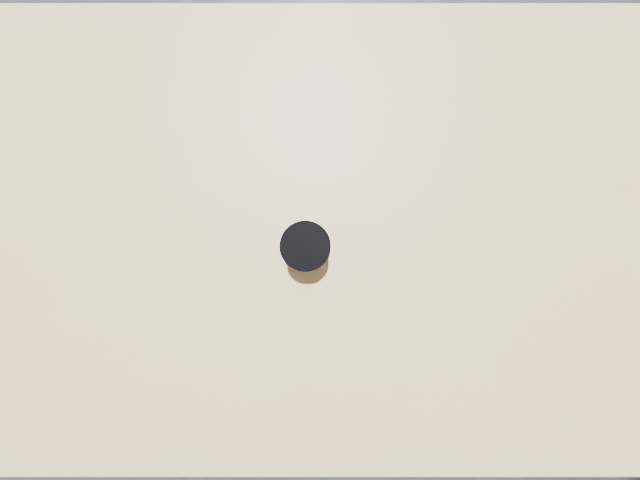
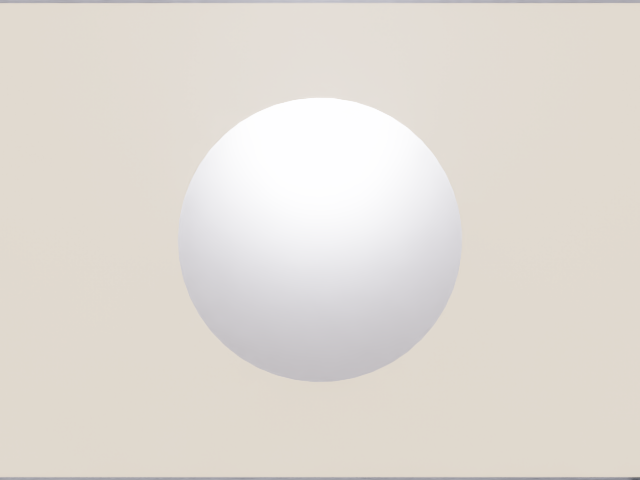
fixed camera pos

Changed region(s): [[0.2812, 0.1875, 0.7188, 0.5938], [0.3125, 0.6562, 0.6875, 0.8125]]

diff --git a/scripts/capture_piece_detection.py b/scripts/capture_piece_detection.py
@@ -53,9 +53,10 @@ FOCAL_MM    = 24.0
 APERTURE_MM = 36.0
 
 # Surface estimation: look for the dominant depth peak in this range [m].
-# Should bracket the table/board surface.
-SURFACE_DEPTH_MIN = 0.10
-SURFACE_DEPTH_MAX = 0.50
+# Should bracket the table/board surface for the active camera height.
+# Defaults below assume camera at z ≈ 1 m (cavity-camera pose).
+SURFACE_DEPTH_MIN = 0.70
+SURFACE_DEPTH_MAX = 1.20
 SURFACE_HIST_BIN  = 0.001   # 1 mm bins
 
 # Segmentation: a pixel belongs to the piece if its depth is MORE than this
@@ -69,6 +70,33 @@ DEPTH_MIN_VALID = 0.02
 # Connected-component filters
 CC_MIN_AREA_PX =  300   # discard blobs smaller than this
 CC_MAX_AREA_PX = 50000  # discard blobs suspiciously large (probably table leak)
+
+# ── PIECE ROI ────────────────────────────────────────────────────────────────
+# Restrict surface estimation (and optionally segmentation) to a region of
+# interest around the piece capture area.  This avoids unrelated surfaces in
+# the scene (e.g. another table in the corner) hijacking the depth histogram.
+#
+# Three modes when PIECE_ROI_ENABLED=True:
+#   1. If all four PIECE_ROI_X1/Y1/X2/Y2 are not None → explicit pixel ROI.
+#   2. Else if PIECE_ROI_MODE == "center_fraction" → centred box covering
+#      PIECE_ROI_FRACTION of the image width and height.
+#   3. Otherwise → full image (same as PIECE_ROI_ENABLED=False).
+PIECE_ROI_ENABLED  = True
+PIECE_ROI_MODE     = "center_fraction"
+PIECE_ROI_FRACTION = 0.60
+
+# Explicit pixel ROI fallback (used only if all four are not None).
+PIECE_ROI_X1 = None
+PIECE_ROI_Y1 = None
+PIECE_ROI_X2 = None
+PIECE_ROI_Y2 = None
+
+# When True, the raw piece mask is also restricted to the (expanded) ROI so
+# that connected components from objects outside the ROI cannot enter the
+# selection at all.  EXPAND_PX widens the ROI for segmentation only, leaving
+# the surface-estimation ROI tighter.
+RESTRICT_PIECE_MASK_TO_ROI = True
+PIECE_MASK_ROI_EXPAND_PX   = 20
 
 # Piece selection mode — used after connected-component filtering.
 #   "largest"            — pick the valid component with largest area (default)
@@ -240,26 +268,68 @@ async def capture_rgb_depth():
 
 # ── SURFACE ESTIMATION ────────────────────────────────────────────────────────
 
-def estimate_support_surface_depth(depth):
+def compute_piece_roi(img_w: int, img_h: int) -> tuple:
+    """
+    Resolve the piece ROI based on config.  Returns (x1, y1, x2, y2, source)
+    where source is one of {"explicit", "center_fraction", "full"}.
+
+    The returned box uses pixel coords with x2/y2 EXCLUSIVE (slice convention).
+    """
+    if not PIECE_ROI_ENABLED:
+        return 0, 0, img_w, img_h, "full"
+
+    if (PIECE_ROI_X1 is not None and PIECE_ROI_Y1 is not None and
+            PIECE_ROI_X2 is not None and PIECE_ROI_Y2 is not None):
+        x1 = max(0, int(PIECE_ROI_X1));  y1 = max(0, int(PIECE_ROI_Y1))
+        x2 = min(img_w, int(PIECE_ROI_X2));  y2 = min(img_h, int(PIECE_ROI_Y2))
+        return x1, y1, x2, y2, "explicit"
+
+    if PIECE_ROI_MODE == "center_fraction":
+        f = max(0.05, min(1.0, float(PIECE_ROI_FRACTION)))
+        rw = int(round(img_w * f));  rh = int(round(img_h * f))
+        x1 = (img_w - rw) // 2;      y1 = (img_h - rh) // 2
+        return x1, y1, x1 + rw, y1 + rh, "center_fraction"
+
+    # Unknown mode → full image
+    return 0, 0, img_w, img_h, "full"
+
+
+def expand_roi(roi: tuple, expand_px: int, img_w: int, img_h: int) -> tuple:
+    """Expand (x1, y1, x2, y2) by `expand_px` pixels on every side, clipped
+    to the image."""
+    x1, y1, x2, y2 = roi[:4]
+    return (max(0, x1 - expand_px),
+            max(0, y1 - expand_px),
+            min(img_w, x2 + expand_px),
+            min(img_h, y2 + expand_px))
+
+
+def estimate_support_surface_depth(depth, roi: tuple = None):
     """
     Estimate the depth (distance to camera) of the support surface by finding
     the dominant peak in a histogram of valid depth values within the configured
-    range.
+    range.  If `roi` is provided as (x1, y1, x2, y2), the histogram only uses
+    pixels inside that ROI — used to ignore unrelated surfaces elsewhere in
+    the frame.
 
     Returns the estimated surface depth in metres, or raises if not found.
-
-    Risk: if the piece covers most of the frame (very close camera) the piece
-    itself may dominate the histogram and be mis-identified as the surface.
-    Mitigation: keep the camera far enough that the surrounding table is visible.
     """
     import numpy as np
 
-    valid = depth[(depth > SURFACE_DEPTH_MIN) & (depth < SURFACE_DEPTH_MAX)]
+    if roi is not None:
+        x1, y1, x2, y2 = roi[:4]
+        depth_region = depth[y1:y2, x1:x2]
+        print(f"[surface_est] using piece ROI for support surface estimation")
+    else:
+        depth_region = depth
+
+    valid = depth_region[(depth_region > SURFACE_DEPTH_MIN) &
+                         (depth_region < SURFACE_DEPTH_MAX)]
     if valid.size == 0:
         raise RuntimeError(
             f"[surface_est] No valid depth pixels in range "
-            f"[{SURFACE_DEPTH_MIN}, {SURFACE_DEPTH_MAX}] m. "
-            f"Check CAM_Z and SURFACE_DEPTH_MIN/MAX.")
+            f"[{SURFACE_DEPTH_MIN}, {SURFACE_DEPTH_MAX}] m within the ROI. "
+            f"Check camera Z, SURFACE_DEPTH_MIN/MAX, and PIECE_ROI_*.")
 
     bins = np.arange(SURFACE_DEPTH_MIN, SURFACE_DEPTH_MAX + SURFACE_HIST_BIN,
                      SURFACE_HIST_BIN)
@@ -282,23 +352,31 @@ def estimate_support_surface_depth(depth):
 
 # ── SEGMENTATION ──────────────────────────────────────────────────────────────
 
-def segment_piece(depth, surface_z):
+def segment_piece(depth, surface_z, roi: tuple = None):
     """
     Return a raw boolean mask of pixels that are above the support surface by
-    more than SURFACE_TOLERANCE metres.
+    more than SURFACE_TOLERANCE metres.  If `roi` is provided as
+    (x1, y1, x2, y2), pixels outside the ROI are forced to False so that
+    unrelated objects elsewhere in the frame cannot enter the connected-
+    component selection.
 
     Pixels closer to the camera than DEPTH_MIN_VALID are ignored (near-field
     sensor noise in Isaac Sim).
-
-    depth:     H×W float32, metres
-    surface_z: estimated surface distance in metres
     """
     import numpy as np
 
-    # Piece pixels are CLOSER to the camera than the surface
-    # (smaller distance_to_image_plane value)
     threshold = surface_z - SURFACE_TOLERANCE
     mask = (depth > DEPTH_MIN_VALID) & (depth < threshold)
+
+    if roi is not None:
+        x1, y1, x2, y2 = roi[:4]
+        roi_mask = np.zeros_like(mask, dtype=bool)
+        roi_mask[y1:y2, x1:x2] = True
+        before = int(mask.sum())
+        mask = mask & roi_mask
+        after = int(mask.sum())
+        print(f"[segment] restricted to ROI [{x1}:{x2}, {y1}:{y2}]: "
+              f"{before} → {after} pixels")
 
     n_pixels = int(mask.sum())
     print(f"[segment] surface_z={surface_z:.4f}m  threshold={threshold:.4f}m  "
@@ -307,7 +385,8 @@ def segment_piece(depth, surface_z):
     if n_pixels == 0:
         print("[segment] WARNING: zero pixels above surface. "
               "Possible causes: piece is flush with table, camera too high, "
-              "SURFACE_TOLERANCE too small, depth units mismatch.")
+              "SURFACE_TOLERANCE too small, depth units mismatch, "
+              "or PIECE_ROI excludes the piece.")
 
     return mask
 
@@ -577,6 +656,33 @@ def make_footprint_image(points, resolution_m=0.0005, canvas_px=256):
 
 # ── DEBUG OUTPUTS ─────────────────────────────────────────────────────────────
 
+def save_piece_roi_debug(out_dir, rgb, roi: tuple, expanded_roi: tuple = None):
+    """Render piece_roi_debug.png: RGB with the ROI rectangle (cyan) and,
+    if RESTRICT_PIECE_MASK_TO_ROI is on, the expanded segmentation ROI
+    (yellow, dashed)."""
+    if rgb is None or roi is None:
+        return
+    import cv2
+    import numpy as np
+
+    debug = cv2.cvtColor(rgb, cv2.COLOR_RGB2BGR).copy()
+    x1, y1, x2, y2 = roi[:4]
+    source = roi[4] if len(roi) > 4 else "unknown"
+    cv2.rectangle(debug, (x1, y1), (x2 - 1, y2 - 1), (255, 255, 0), 2)   # cyan
+    cv2.putText(debug, f"piece ROI ({source})", (x1, max(15, y1 - 6)),
+                cv2.FONT_HERSHEY_SIMPLEX, 0.5, (255, 255, 0), 1, cv2.LINE_AA)
+
+    if expanded_roi is not None:
+        ex1, ey1, ex2, ey2 = expanded_roi
+        cv2.rectangle(debug, (ex1, ey1), (ex2 - 1, ey2 - 1), (0, 255, 255), 1)
+        cv2.putText(debug, "segmentation ROI (expanded)",
+                    (ex1, min(rgb.shape[0] - 5, ey2 + 14)),
+                    cv2.FONT_HERSHEY_SIMPLEX, 0.4, (0, 255, 255), 1, cv2.LINE_AA)
+
+    cv2.imwrite(str(out_dir / "piece_roi_debug.png"), debug)
+    print(f"[save] piece_roi_debug.png written")
+
+
 def save_debug_outputs(out_dir, rgb, depth, raw_mask, best_mask,
                        footprint_bgr, points, blob_stats, centroid_world,
                        surface_z):
@@ -649,7 +755,8 @@ def save_debug_outputs(out_dir, rgb, depth, raw_mask, best_mask,
 
 def save_metadata(out_dir, success, best_mask, blob_stats, points,
                   centroid_world, surface_z, n_valid_components=0,
-                  selected_rank=-1, error_msg=None, camera_pose: dict = None):
+                  selected_rank=-1, error_msg=None, camera_pose: dict = None,
+                  piece_roi: tuple = None, piece_roi_expanded: tuple = None):
     """
     Write piece_metadata.json conforming to the experiments.md conventions.
 
@@ -703,6 +810,22 @@ def save_metadata(out_dir, success, best_mask, blob_stats, points,
         "camera_pose_source":     (camera_pose or {}).get("source", "unknown"),
         "camera_pose_overridden": bool(SET_CAMERA_POSE),
         "set_camera_pose":        bool(SET_CAMERA_POSE),
+        "piece_roi_enabled":           bool(PIECE_ROI_ENABLED),
+        "piece_roi_mode":              PIECE_ROI_MODE,
+        "piece_roi_fraction":          float(PIECE_ROI_FRACTION),
+        "piece_roi_px": (
+            {"x1": piece_roi[0], "y1": piece_roi[1],
+             "x2": piece_roi[2], "y2": piece_roi[3],
+             "source": piece_roi[4] if len(piece_roi) > 4 else None}
+            if piece_roi is not None else None
+        ),
+        "restrict_piece_mask_to_roi":  bool(RESTRICT_PIECE_MASK_TO_ROI),
+        "piece_mask_roi_expand_px":    int(PIECE_MASK_ROI_EXPAND_PX),
+        "expanded_piece_roi_px": (
+            {"x1": piece_roi_expanded[0], "y1": piece_roi_expanded[1],
+             "x2": piece_roi_expanded[2], "y2": piece_roi_expanded[3]}
+            if piece_roi_expanded is not None else None
+        ),
         "image_resolution": {
             "width":  IMG_W,
             "height": IMG_H,
@@ -774,6 +897,7 @@ async def main():
         "rgb.png", "depth_vis.png", "raw_piece_mask.png",
         "piece_mask.png", "piece_debug.png", "piece_footprint.png",
         "piece_pointcloud.npy", "piece_metadata.json",
+        "piece_roi_debug.png",
     ]
     for _fname in _stale_files:
         _p = OUT_DIR / _fname
@@ -795,6 +919,8 @@ async def main():
     footprint_bgr  = None
     active_camera_pose = None    # populated after Step 1; recorded in metadata
     active_cam_xy      = (0.0, 0.0)
+    piece_roi          = None    # (x1, y1, x2, y2, source)
+    piece_roi_expanded = None    # ROI used for mask restriction
 
     try:
         # ── Step 1: Camera setup ──────────────────────────────────────────────
@@ -827,13 +953,30 @@ async def main():
         print("\n--- Step 2: Capture RGB + depth ---")
         rgb, depth = await capture_rgb_depth()
 
-        # ── Step 3: Surface estimation ────────────────────────────────────────
+        # ── Step 3a: Resolve piece ROI ───────────────────────────────────────
+        x1, y1, x2, y2, roi_source = compute_piece_roi(IMG_W, IMG_H)
+        piece_roi = (x1, y1, x2, y2, roi_source)
+        print(f"[piece_roi] enabled={PIECE_ROI_ENABLED}  source={roi_source}")
+        print(f"[piece_roi] x=[{x1}:{x2}] y=[{y1}:{y2}]")
+
+        if RESTRICT_PIECE_MASK_TO_ROI:
+            ex1, ey1, ex2, ey2 = expand_roi(piece_roi,
+                                            PIECE_MASK_ROI_EXPAND_PX,
+                                            IMG_W, IMG_H)
+            piece_roi_expanded = (ex1, ey1, ex2, ey2)
+            print(f"[piece_roi] segmentation ROI (expanded by "
+                  f"{PIECE_MASK_ROI_EXPAND_PX} px) = [{ex1}:{ex2}, {ey1}:{ey2}]")
+
+        # ── Step 3b: Surface estimation ──────────────────────────────────────
         print("\n--- Step 3: Estimate support surface depth ---")
-        surface_z = estimate_support_surface_depth(depth)
+        surface_estimation_roi = (x1, y1, x2, y2) if PIECE_ROI_ENABLED else None
+        surface_z = estimate_support_surface_depth(depth,
+                                                    roi=surface_estimation_roi)
 
         # ── Step 4: Segmentation ──────────────────────────────────────────────
         print("\n--- Step 4: Segment piece ---")
-        raw_mask = segment_piece(depth, surface_z)
+        seg_roi = piece_roi_expanded if RESTRICT_PIECE_MASK_TO_ROI else None
+        raw_mask = segment_piece(depth, surface_z, roi=seg_roi)
 
         # ── Step 5: Connected components ──────────────────────────────────────
         print("\n--- Step 5: Select best component ---")
@@ -876,6 +1019,12 @@ async def main():
         # ── Step 8: Save outputs ──────────────────────────────────────────────
         print("\n--- Step 8: Save debug outputs ---")
 
+        # Always write the ROI debug image whenever RGB is available, on both
+        # success and failure paths.  Helps diagnosing ROI mis-placement.
+        if rgb is not None and piece_roi is not None:
+            OUT_DIR.mkdir(parents=True, exist_ok=True)
+            save_piece_roi_debug(OUT_DIR, rgb, piece_roi, piece_roi_expanded)
+
         if success:
             # All intermediates are guaranteed non-None when success=True
             save_debug_outputs(OUT_DIR, rgb, depth, raw_mask, best_mask,
@@ -916,7 +1065,9 @@ async def main():
                       n_valid_components=len(blob_stats),
                       selected_rank=selected_rank,
                       error_msg=error_msg,
-                      camera_pose=active_camera_pose)
+                      camera_pose=active_camera_pose,
+                      piece_roi=piece_roi,
+                      piece_roi_expanded=piece_roi_expanded)
 
         print("\n" + "=" * 60)
         print(f"  success={success}")